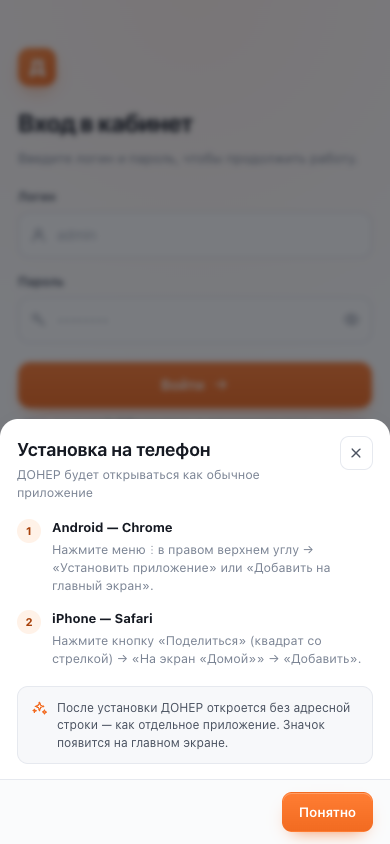
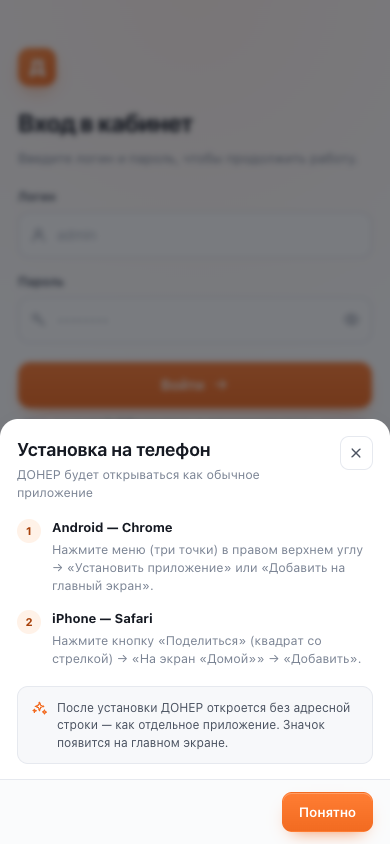
Финальные правки ДОНЕР: права склада, установка PWA и документация

Changed region(s): [[0.1538, 0.6469, 0.9231, 0.6777]]

diff --git a/assets/js/app.js b/assets/js/app.js
@@ -306,7 +306,7 @@
                     } catch (error) { /* ignore */ }
                 }
                 qty.value = '';
-                cost.value = '';
+                if (cost) cost.value = '';
                 updateMode();
                 openModal('stock-modal');
             });

diff --git a/sw.js b/sw.js
@@ -1,5 +1,5 @@
 /* PIZ service worker: оболочка приложения и офлайн-страница. */
-const CACHE_NAME = 'piz-shell-v4';
+const CACHE_NAME = 'piz-shell-v5';
 const OFFLINE_URL = '/offline.html';
 const PRECACHE = [
     '/assets/css/app.css',

diff --git a/src/Views/products/index.php b/src/Views/products/index.php
@@ -335,12 +335,14 @@ unset($query['page']);
                         <div class="form-grid">
                             <label class="field">
                                 <span class="label">Количество</span>
-                                <input class="input" type="number" name="qty" min="0" required placeholder="Например, 20">
+                                <input class="input" type="number" name="qty" min="-1000000" required placeholder="Например, 20">
                             </label>
-                            <label class="field" data-cost-row>
-                                <span class="label">Закупочная цена за единицу</span>
-                                <input class="input" type="text" name="unit_cost" inputmode="decimal" placeholder="Необязательно">
-                            </label>
+                            <?php if ($canPrices): ?>
+                                <label class="field" data-cost-row>
+                                    <span class="label">Закупочная цена за единицу</span>
+                                    <input class="input" type="text" name="unit_cost" inputmode="decimal" placeholder="Необязательно">
+                                </label>
+                            <?php endif; ?>
                         </div>
                         <label class="field">
                             <span class="label">Причина / комментарий</span>

diff --git a/ИСТОРИЯ.md b/ИСТОРИЯ.md
@@ -223,7 +223,7 @@ ls -la | head -20
 - `Product::addStock` пересчитывает средневзвешенную себестоимость и пишет партию; `Product::setStock` допускает минус.
 - `Sale` и `Writeoff` привязываются к открытой смене, смена открывается автоматически при первой операции.
 - Dashboard/Reports/продажи считают прибыль за вычетом списаний; CSV отчётов дополнен расходами.
-- Service worker обновлён до `piz-shell-v4`, иконки PWA перерисованы с «Д».
+- Service worker обновлён до `piz-shell-v5`, иконки PWA перерисованы с «Д».
 
 ### Проверка
 
